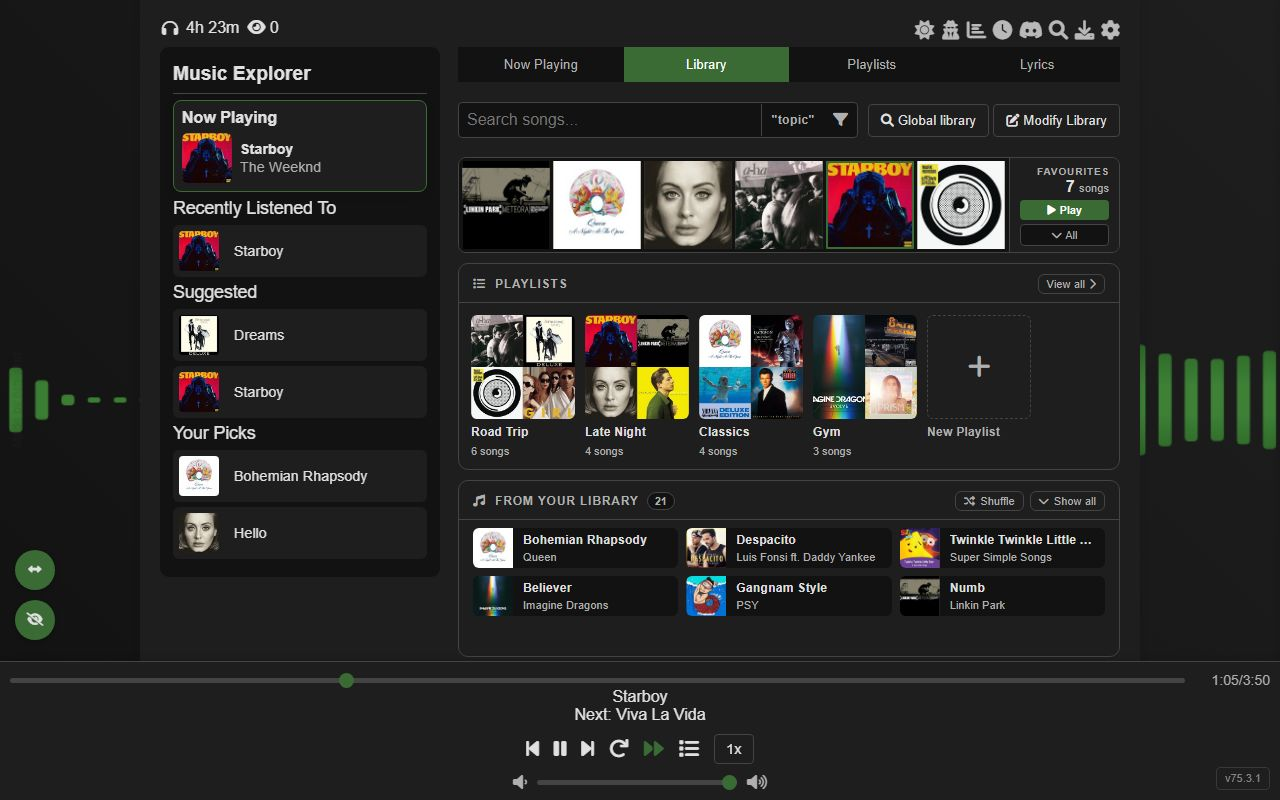
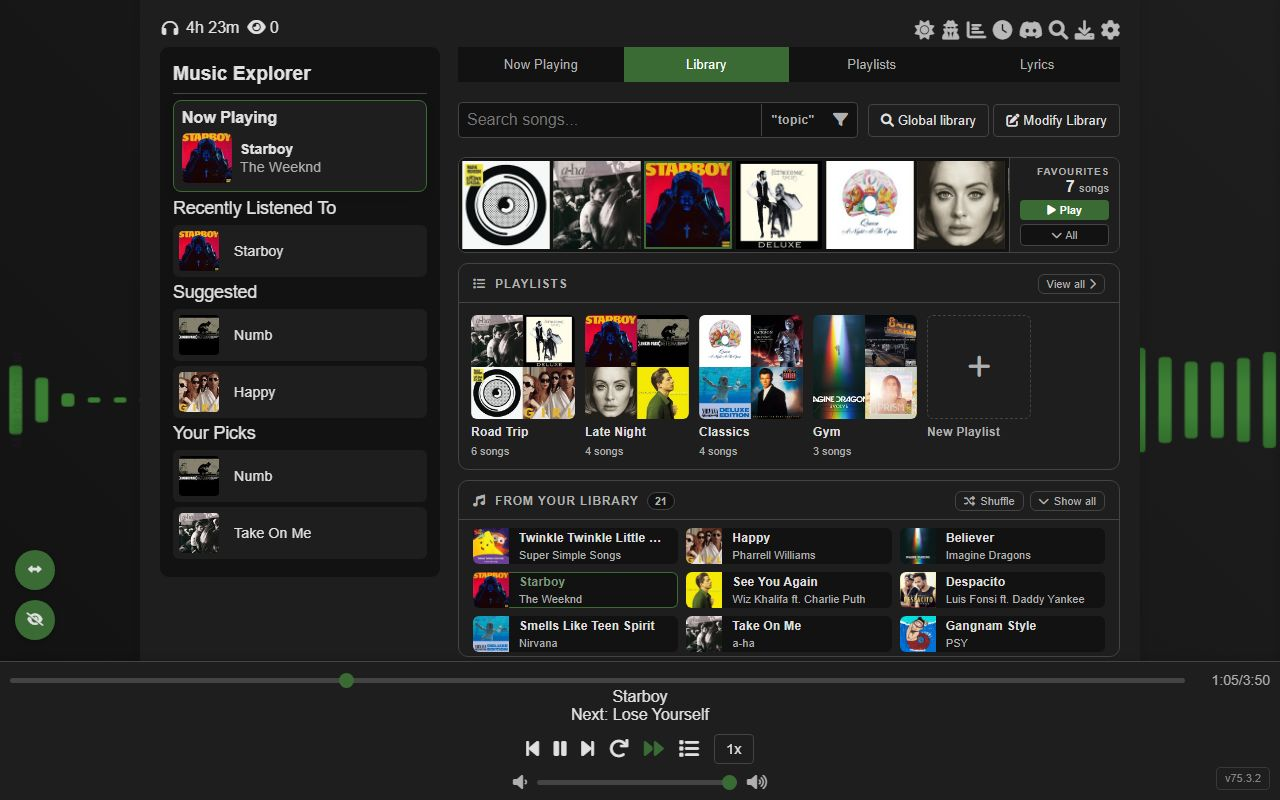
v75.3.4: Size compact library tiles to fill the pane
Rows are 48px apart (40px tile + 8px gap), so the compact grid could
leave up to ~50px empty under its last row, which reads as room for one
more. renderGrid now sizes the tiles to the space via
--discovery-tile-size on the grid:
- if one more row fits with tiles of at least 34px (the two text lines
  need ~33px), add it with smaller tiles
- otherwise grow the tiles to fill the space, up to 52px

At 1440 wide the empty space under the last row is now 4-6px from 700 to
960px tall, e.g. 3 rows of 36px tiles at 800px (was 2 rows + 45px gap).
Cover mode is unchanged.

diff --git a/public/script.js b/public/script.js
@@ -2835,10 +2835,13 @@ class AdvancedMusicPlayer {
         fillGrid(cols);
       }
       const rowHeight = grid.firstElementChild.offsetHeight;
+      const space = grid.clientHeight - padTop - 4;
       return {
         cols,
+        gap,
+        space,
         minHeight: card.offsetHeight - grid.offsetHeight + padTop + 4 + rowHeight,
-        rows: Math.floor((grid.clientHeight - padTop - 4 + gap) / (rowHeight + gap))
+        rows: Math.floor((space + gap) / (rowHeight + gap))
       };
     };
     const renderGrid = () => {
@@ -2847,10 +2850,19 @@ class AdvancedMusicPlayer {
       }
       card.style.minHeight = '0px';
       card.classList.remove('is-condensed');
+      grid.style.removeProperty('--discovery-tile-size');
       let layout = measureGrid();
       if (layout.rows < 2) {
         card.classList.add('is-condensed');
         layout = measureGrid();
+        if (layout.rows > 0) {
+          const { gap, space } = layout;
+          if (Math.floor((space - layout.rows * gap) / (layout.rows + 1)) >= 34) {
+            layout.rows++;
+          }
+          const size = Math.min(52, Math.floor((space - (layout.rows - 1) * gap) / layout.rows));
+          grid.style.setProperty('--discovery-tile-size', `${size}px`);
+        }
       }
       card.style.minHeight = `${layout.minHeight}px`;
       fillGrid(layout.cols * Math.max(1, layout.rows));

diff --git a/public/style.css b/public/style.css
@@ -5552,8 +5552,8 @@ body.control-bar-hidden .playlist-sidebar.expanded-mode .sidebar-songs-list {
   background: var(--border-color);
 }
 .discovery-card.is-condensed .discovery-thumb-wrap {
-  flex: 0 0 40px;
-  width: 40px;
+  flex: 0 0 var(--discovery-tile-size, 40px);
+  width: var(--discovery-tile-size, 40px);
   border-radius: 0;
   box-shadow: none;
   transform: none;

diff --git a/public/changelog.md b/public/changelog.md
@@ -790,3 +790,4 @@ Redesigned the From your library shelf: covers now fill each row evenly with the
 From your library no longer hides song titles below the edge on shorter screens: when a row of covers doesn't fit it switches to compact tiles with the cover beside the title, and on windows under 760px tall the playlist covers shrink a little to make room v75.3.1
 The page no longer scrolls down into an empty strip below the control bar, and From your library makes room for one more row of songs when it can: the Favourites and Playlists shelves slim down whenever that lets another row fit v75.3.2
 From your library keeps the Favourites and Playlists shelves at full size again and finds its extra row another way: it now reaches down to just above the control bar, a row is added whenever it fits with a slim bottom margin, and compact tiles stay until two rows of covers fit, so far less empty space is left at the bottom v75.3.3
+From your library no longer leaves an empty strip under its compact tiles: when a row almost fits the tiles get a few pixels smaller to make room for it, and otherwise they grow a little to fill the space v75.3.4

diff --git a/CODEMAP.md b/CODEMAP.md
@@ -12,7 +12,7 @@ not hold what this file claims, regenerate, or `grep -n "  methodName("`.
 
 | Source | sha256 (first 12) | Lines |
 |---|---|---|
-| `public/script.js` | `0ffb01e7e5fc` | 16532 |
+| `public/script.js` | `b6c8af92fc36` | 16544 |
 | `public/index.html` | `6cae17fc6031` | 1502 |
 | `public/script/settings.js` | `b1cbbfc3625b` | 561 |
 | `public/karaoke-player.js` | `ec6846376de2` | 683 |
